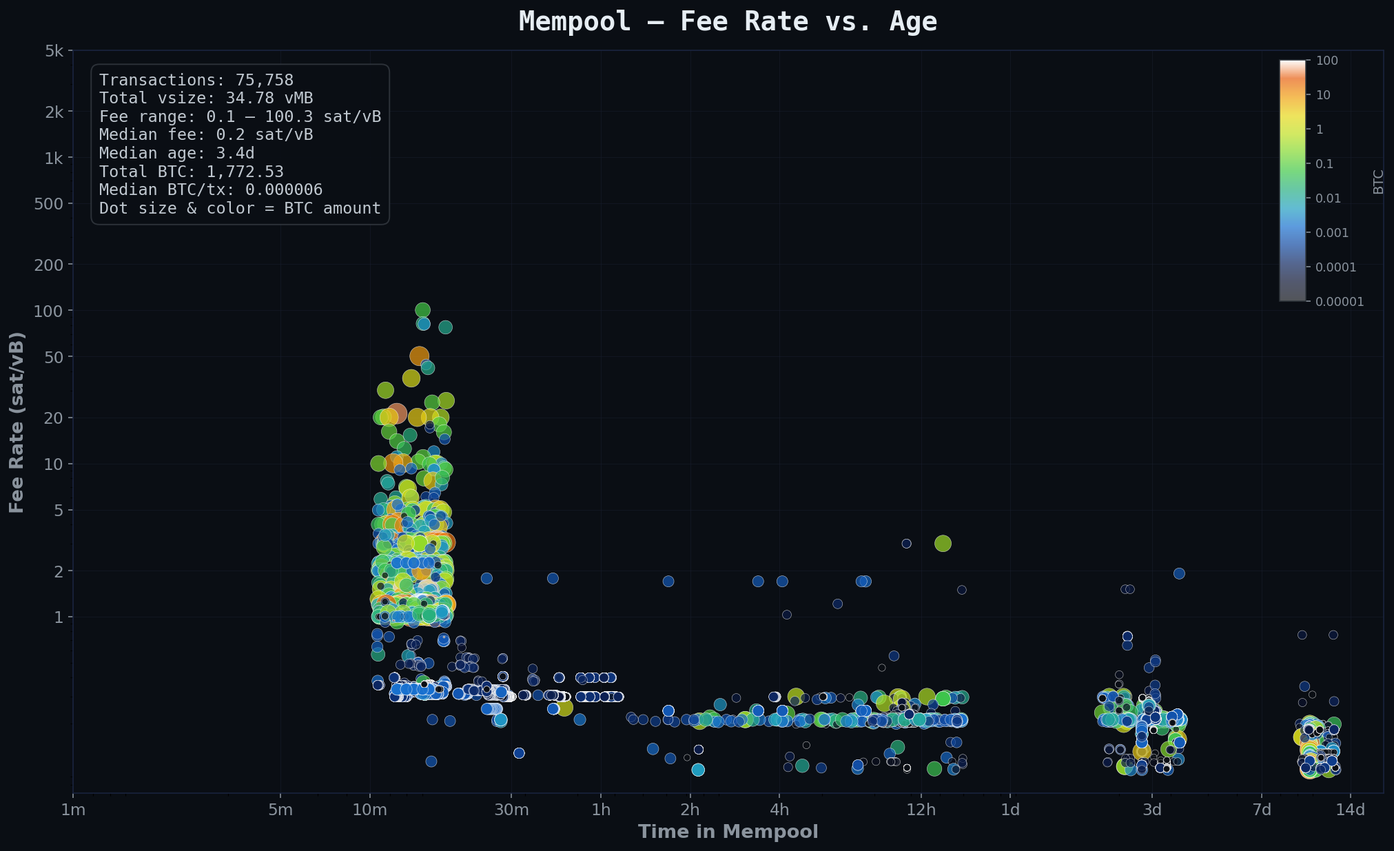
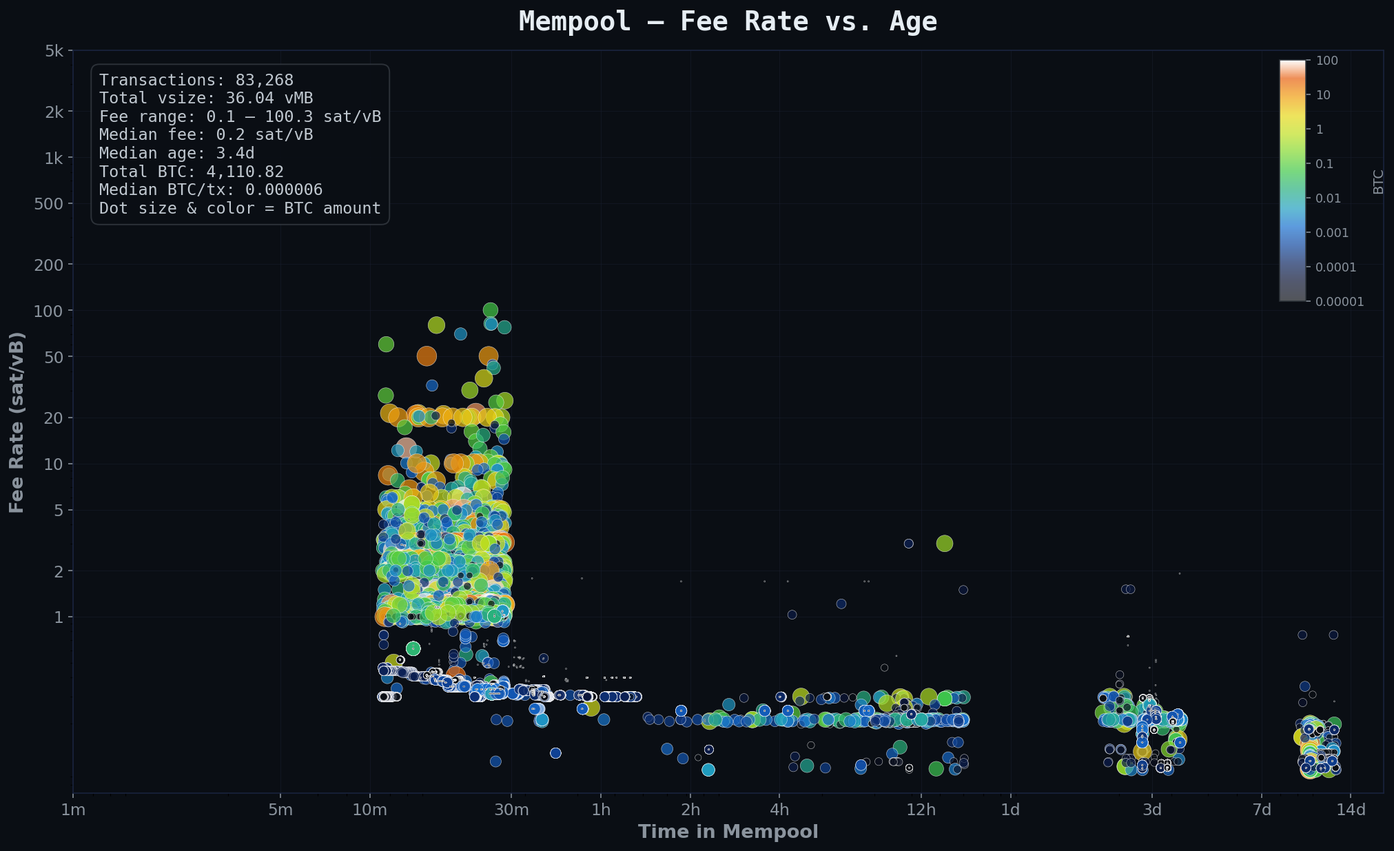
83,268 txs · 36.0 vMB · median 0.2 sat/vB

diff --git a/index.html b/index.html
@@ -117,38 +117,37 @@
 </head>
 <body>
   <h1><img src="favicon.svg" alt=""> Bitcoin Weather Report</h1>
-  <div class="updated">Last update: 1778740240.5706506 · auto-refresh every 10 min<span class="source"> · source: Mac feed (2m old)</span></div>
+  <div class="updated">Last update: 1778740865.905161 · auto-refresh every 10 min<span class="source"> · source: Mac feed (3m old)</span></div>
   <div class="status"><span class="ok">SYNCED — block 949,332</span></div>
 
   <div class="stats">
-    <div class="stat"><div class="lbl">Mempool TXs</div><div class="val">75,758</div></div>
-    <div class="stat"><div class="lbl">Mempool size</div><div class="val">34.78 <small>vMB</small></div></div>
+    <div class="stat"><div class="lbl">Mempool TXs</div><div class="val">83,268</div></div>
+    <div class="stat"><div class="lbl">Mempool size</div><div class="val">36.04 <small>vMB</small></div></div>
     <div class="stat"><div class="lbl">Median fee</div><div class="val">0.2 <small>sat/vB</small></div></div>
     <div class="stat"><div class="lbl">Oldest TX</div><div class="val">12.5d</div></div>
   </div>
 
   <h2>Notable Events</h2>
   <ul class="events">
-    <li class="event info">2 whale txs (≥100 BTC pending)</li>
+    <li class="event info">5 whale txs (≥100 BTC pending)</li>
 <li class="event info">1,893 stale txs (>7d)</li>
   </ul>
 
   <h2>Mempool Heatmap</h2>
-  <img src="mempool_heatmap.png?t=1778740240" alt="Mempool heatmap">
+  <img src="mempool_heatmap.png?t=1778740865" alt="Mempool heatmap">
 
   <h2>Commentary</h2>
   <div class="commentary">
-    <p>The mempool is <b>busy</b> — 75,758 transactions occupying 34.8 vMB, and fees are at rock bottom (median 0.2 sat/vB). Low-fee transactions will need to wait.</p>
-<p>In total, <b>1,772.5 BTC</b> are queued for movement. Most pending txs are small (median under 100k sat). 2 whale transactions (≥100 BTC) are pending. 28 larger-than-average (28 between 10–100 BTC). The largest pending tx moves 528.5977 BTC at 1.2 sat/vB.</p>
-<p>The mempool has accumulated some backlog — only 19,682 of 75,758 txs are from the last 6 hours. At the bottom sits a sediment layer of <b>1,893 transactions older than a week</b>, almost all at the minimum 0.1 sat/vB. These typically include cheap consolidations and dust transactions waiting for a near-empty block; many will eventually be evicted after 14 days unconfirmed.</p>
-<p>It's been 18m since the last block (#949332) — slightly slow but normal variance.</p>
+    <p>The mempool is <b>busy</b> — 83,268 transactions occupying 36.0 vMB, and fees are at rock bottom (median 0.2 sat/vB). Low-fee transactions will need to wait.</p>
+<p>In total, <b>4,110.8 BTC</b> are queued for movement. Most pending txs are small (median under 100k sat). 5 whale transactions (≥100 BTC) are pending. 70 larger-than-average (70 between 10–100 BTC). The largest pending tx moves 528.5977 BTC at 1.2 sat/vB.</p>
+<p>The mempool has accumulated some backlog — only 27,190 of 83,268 txs are from the last 6 hours. At the bottom sits a sediment layer of <b>1,893 transactions older than a week</b>, almost all at the minimum 0.1 sat/vB. These typically include cheap consolidations and dust transactions waiting for a near-empty block; many will eventually be evicted after 14 days unconfirmed.</p>
   </div>
 
   <h2>24h Trends</h2>
-  <div class="trend-meta">Last 24.5h · 144 samples</div><div class="trends"><div class="trend">  <div class="trend-lbl">Median fee</div>  <div class="trend-val">0.2 <small>sat/vB</small></div>  <svg width="200" height="40" class="spark" viewBox="0 0 200 40"><polygon fill="#f5e642" fill-opacity="0.15" points="2.0,38.0 3.4,38.0 4.7,38.0 6.1,38.0 7.5,38.0 8.9,38.0 10.2,38.0 11.6,38.0 13.0,38.0 14.3,38.0 15.7,38.0 17.1,38.0 18.4,38.0 19.8,38.0 21.2,38.0 22.6,38.0 23.9,38.0 25.3,38.0 26.7,38.0 28.0,38.0 29.4,38.0 30.8,38.0 32.2,38.0 33.5,38.0 34.9,38.0 36.3,38.0 37.6,38.0 39.0,38.0 40.4,38.0 41.7,38.0 43.1,38.0 44.5,38.0 45.9,38.0 47.2,38.0 48.6,38.0 50.0,38.0 51.3,38.0 52.7,38.0 54.1,38.0 55.5,38.0 56.8,38.0 58.2,38.0 59.6,38.0 60.9,38.0 62.3,2.0 63.7,2.0 65.0,16.4 66.4,16.4 67.8,16.4 69.2,16.4 70.5,16.4 71.9,16.4 73.3,16.4 74.6,16.4 76.0,16.4 77.4,16.4 78.8,16.4 80.1,16.4 81.5,16.4 82.9,16.4 84.2,16.4 85.6,16.4 87.0,16.4 88.3,16.4 89.7,16.4 91.1,16.4 92.5,38.0 93.8,16.4 95.2,38.0 96.6,38.0 97.9,16.4 99.3,16.4 100.7,16.4 102.1,16.4 103.4,16.4 104.8,16.4 106.2,16.4 107.5,38.0 108.9,38.0 110.3,16.4 111.7,16.4 113.0,16.4 114.4,38.0 115.8,38.0 117.1,38.0 118.5,38.0 119.9,38.0 121.2,38.0 122.6,38.0 124.0,38.0 125.4,38.0 126.7,38.0 128.1,38.0 129.5,38.0 130.8,38.0 132.2,38.0 133.6,38.0 135.0,16.4 136.3,38.0 137.7,38.0 139.1,38.0 140.4,16.4 141.8,16.4 143.2,38.0 144.5,38.0 145.9,38.0 147.3,38.0 148.7,16.4 150.0,16.4 151.4,38.0 152.8,38.0 154.1,38.0 155.5,38.0 156.9,38.0 158.3,38.0 159.6,38.0 161.0,38.0 162.4,16.4 163.7,16.4 165.1,16.4 166.5,16.4 167.8,16.4 169.2,16.4 170.6,16.4 172.0,16.4 173.3,16.4 174.7,38.0 176.1,38.0 177.4,38.0 178.8,38.0 180.2,38.0 181.6,16.4 182.9,16.4 184.3,16.4 185.7,16.4 187.0,16.4 188.4,16.4 189.8,16.4 191.1,16.4 192.5,16.4 193.9,16.4 195.3,16.4 196.6,38.0 198.0,16.4 198.0,38.0 2.0,38.0"/><polyline fill="none" stroke="#f5e642" stroke-width="1.5" stroke-linejoin="round" stroke-linecap="round" points="2.0,38.0 3.4,38.0 4.7,38.0 6.1,38.0 7.5,38.0 8.9,38.0 10.2,38.0 11.6,38.0 13.0,38.0 14.3,38.0 15.7,38.0 17.1,38.0 18.4,38.0 19.8,38.0 21.2,38.0 22.6,38.0 23.9,38.0 25.3,38.0 26.7,38.0 28.0,38.0 29.4,38.0 30.8,38.0 32.2,38.0 33.5,38.0 34.9,38.0 36.3,38.0 37.6,38.0 39.0,38.0 40.4,38.0 41.7,38.0 43.1,38.0 44.5,38.0 45.9,38.0 47.2,38.0 48.6,38.0 50.0,38.0 51.3,38.0 52.7,38.0 54.1,38.0 55.5,38.0 56.8,38.0 58.2,38.0 59.6,38.0 60.9,38.0 62.3,2.0 63.7,2.0 65.0,16.4 66.4,16.4 67.8,16.4 69.2,16.4 70.5,16.4 71.9,16.4 73.3,16.4 74.6,16.4 76.0,16.4 77.4,16.4 78.8,16.4 80.1,16.4 81.5,16.4 82.9,16.4 84.2,16.4 85.6,16.4 87.0,16.4 88.3,16.4 89.7,16.4 91.1,16.4 92.5,38.0 93.8,16.4 95.2,38.0 96.6,38.0 97.9,16.4 99.3,16.4 100.7,16.4 102.1,16.4 103.4,16.4 104.8,16.4 106.2,16.4 107.5,38.0 108.9,38.0 110.3,16.4 111.7,16.4 113.0,16.4 114.4,38.0 115.8,38.0 117.1,38.0 118.5,38.0 119.9,38.0 121.2,38.0 122.6,38.0 124.0,38.0 125.4,38.0 126.7,38.0 128.1,38.0 129.5,38.0 130.8,38.0 132.2,38.0 133.6,38.0 135.0,16.4 136.3,38.0 137.7,38.0 139.1,38.0 140.4,16.4 141.8,16.4 143.2,38.0 144.5,38.0 145.9,38.0 147.3,38.0 148.7,16.4 150.0,16.4 151.4,38.0 152.8,38.0 154.1,38.0 155.5,38.0 156.9,38.0 158.3,38.0 159.6,38.0 161.0,38.0 162.4,16.4 163.7,16.4 165.1,16.4 166.5,16.4 167.8,16.4 169.2,16.4 170.6,16.4 172.0,16.4 173.3,16.4 174.7,38.0 176.1,38.0 177.4,38.0 178.8,38.0 180.2,38.0 181.6,16.4 182.9,16.4 184.3,16.4 185.7,16.4 187.0,16.4 188.4,16.4 189.8,16.4 191.1,16.4 192.5,16.4 193.9,16.4 195.3,16.4 196.6,38.0 198.0,16.4"/></svg>  <div class="trend-range">range: 0.0 – 0.3</div></div><div class="trend">  <div class="trend-lbl">Mempool size</div>  <div class="trend-val">34.8 <small>vMB</small></div>  <svg width="200" height="40" class="spark" viewBox="0 0 200 40"><polygon fill="#c0e020" fill-opacity="0.15" points="2.0,38.0 3.4,38.0 4.7,38.0 6.1,38.0 7.5,38.0 8.9,38.0 10.2,38.0 11.6,38.0 13.0,38.0 14.3,38.0 15.7,38.0 17.1,38.0 18.4,38.0 19.8,38.0 21.2,38.0 22.6,38.0 23.9,38.0 25.3,38.0 26.7,38.0 28.0,38.0 29.4,38.0 30.8,38.0 32.2,38.0 33.5,38.0 34.9,38.0 36.3,38.0 37.6,38.0 39.0,38.0 40.4,38.0 41.7,38.0 43.1,38.0 44.5,38.0 45.9,38.0 47.2,38.0 48.6,38.0 50.0,38.0 51.3,38.0 52.7,38.0 54.1,38.0 55.5,38.0 56.8,38.0 58.2,38.0 59.6,38.0 60.9,38.0 62.3,38.0 63.7,38.0 65.0,16.5 66.4,4.4 67.8,3.6 69.2,2.8 70.5,4.9 71.9,4.5 73.3,4.6 74.6,3.9 76.0,3.4 77.4,5.3 78.8,4.0 80.1,3.3 81.5,5.2 82.9,3.9 84.2,3.2 85.6,2.5 87.0,2.5 88.3,2.6 89.7,3.4 91.1,3.3 92.5,38.0 93.8,2.6 95.2,38.0 96.6,38.0 97.9,4.1 99.3,3.9 100.7,3.0 102.1,4.2 103.4,3.3 104.8,3.6 106.2,5.4 107.5,38.0 108.9,38.0 110.3,4.1 111.7,3.9 113.0,3.9 114.4,38.0 115.8,38.0 117.1,38.0 118.5,38.0 119.9,38.0 121.2,38.0 122.6,38.0 124.0,38.0 125.4,38.0 126.7,38.0 128.1,38.0 129.5,38.0 130.8,38.0 132.2,38.0 133.6,38.0 135.0,2.0 136.3,38.0 137.7,38.0 139.1,38.0 140.4,4.0 141.8,4.0 143.2,38.0 144.5,38.0 145.9,38.0 147.3,38.0 148.7,3.6 150.0,3.6 151.4,38.0 152.8,38.0 154.1,38.0 155.5,38.0 156.9,38.0 158.3,38.0 159.6,38.0 161.0,38.0 162.4,5.1 163.7,4.2 165.1,3.8 166.5,3.5 167.8,4.9 169.2,5.2 170.6,5.2 172.0,3.8 173.3,4.0 174.7,38.0 176.1,38.0 177.4,38.0 178.8,38.0 180.2,38.0 181.6,4.5 182.9,4.3 184.3,2.9 185.7,3.4 187.0,3.4 188.4,3.2 189.8,5.2 191.1,5.2 192.5,3.6 193.9,4.5 195.3,4.5 196.6,38.0 198.0,3.3 198.0,38.0 2.0,38.0"/><polyline fill="none" stroke="#c0e020" stroke-width="1.5" stroke-linejoin="round" stroke-linecap="round" points="2.0,38.0 3.4,38.0 4.7,38.0 6.1,38.0 7.5,38.0 8.9,38.0 10.2,38.0 11.6,38.0 13.0,38.0 14.3,38.0 15.7,38.0 17.1,38.0 18.4,38.0 19.8,38.0 21.2,38.0 22.6,38.0 23.9,38.0 25.3,38.0 26.7,38.0 28.0,38.0 29.4,38.0 30.8,38.0 32.2,38.0 33.5,38.0 34.9,38.0 36.3,38.0 37.6,38.0 39.0,38.0 40.4,38.0 41.7,38.0 43.1,38.0 44.5,38.0 45.9,38.0 47.2,38.0 48.6,38.0 50.0,38.0 51.3,38.0 52.7,38.0 54.1,38.0 55.5,38.0 56.8,38.0 58.2,38.0 59.6,38.0 60.9,38.0 62.3,38.0 63.7,38.0 65.0,16.5 66.4,4.4 67.8,3.6 69.2,2.8 70.5,4.9 71.9,4.5 73.3,4.6 74.6,3.9 76.0,3.4 77.4,5.3 78.8,4.0 80.1,3.3 81.5,5.2 82.9,3.9 84.2,3.2 85.6,2.5 87.0,2.5 88.3,2.6 89.7,3.4 91.1,3.3 92.5,38.0 93.8,2.6 95.2,38.0 96.6,38.0 97.9,4.1 99.3,3.9 100.7,3.0 102.1,4.2 103.4,3.3 104.8,3.6 106.2,5.4 107.5,38.0 108.9,38.0 110.3,4.1 111.7,3.9 113.0,3.9 114.4,38.0 115.8,38.0 117.1,38.0 118.5,38.0 119.9,38.0 121.2,38.0 122.6,38.0 124.0,38.0 125.4,38.0 126.7,38.0 128.1,38.0 129.5,38.0 130.8,38.0 132.2,38.0 133.6,38.0 135.0,2.0 136.3,38.0 137.7,38.0 139.1,38.0 140.4,4.0 141.8,4.0 143.2,38.0 144.5,38.0 145.9,38.0 147.3,38.0 148.7,3.6 150.0,3.6 151.4,38.0 152.8,38.0 154.1,38.0 155.5,38.0 156.9,38.0 158.3,38.0 159.6,38.0 161.0,38.0 162.4,5.1 163.7,4.2 165.1,3.8 166.5,3.5 167.8,4.9 169.2,5.2 170.6,5.2 172.0,3.8 173.3,4.0 174.7,38.0 176.1,38.0 177.4,38.0 178.8,38.0 180.2,38.0 181.6,4.5 182.9,4.3 184.3,2.9 185.7,3.4 187.0,3.4 188.4,3.2 189.8,5.2 191.1,5.2 192.5,3.6 193.9,4.5 195.3,4.5 196.6,38.0 198.0,3.3"/></svg>  <div class="trend-range">range: 0.0 – 36.1</div></div><div class="trend">  <div class="trend-lbl">Tx count</div>  <div class="trend-val">75,758 <small></small></div>  <svg width="200" height="40" class="spark" viewBox="0 0 200 40"><polygon fill="#1870d0" fill-opacity="0.15" points="2.0,38.0 3.4,38.0 4.7,38.0 6.1,38.0 7.5,38.0 8.9,38.0 10.2,38.0 11.6,38.0 13.0,38.0 14.3,38.0 15.7,38.0 17.1,38.0 18.4,38.0 19.8,38.0 21.2,38.0 22.6,38.0 23.9,38.0 25.3,38.0 26.7,38.0 28.0,38.0 29.4,38.0 30.8,38.0 32.2,38.0 33.5,38.0 34.9,38.0 36.3,38.0 37.6,38.0 39.0,38.0 40.4,38.0 41.7,38.0 43.1,38.0 44.5,38.0 45.9,38.0 47.2,38.0 48.6,38.0 50.0,38.0 51.3,38.0 52.7,38.0 54.1,38.0 55.5,38.0 56.8,38.0 58.2,38.0 59.6,38.0 60.9,38.0 62.3,38.0 63.7,38.0 65.0,36.8 66.4,8.6 67.8,7.5 69.2,6.6 70.5,9.4 71.9,8.2 73.3,8.5 74.6,7.1 76.0,6.2 77.4,9.9 78.8,7.0 80.1,5.8 81.5,9.5 82.9,6.9 84.2,5.8 85.6,4.9 87.0,5.4 88.3,5.9 89.7,7.1 91.1,6.1 92.5,38.0 93.8,4.8 95.2,38.0 96.6,38.0 97.9,6.9 99.3,6.0 100.7,4.0 102.1,6.9 103.4,4.7 104.8,5.4 106.2,10.2 107.5,38.0 108.9,38.0 110.3,6.7 111.7,6.0 113.0,5.7 114.4,38.0 115.8,38.0 117.1,38.0 118.5,38.0 119.9,38.0 121.2,38.0 122.6,38.0 124.0,38.0 125.4,38.0 126.7,38.0 128.1,38.0 129.5,38.0 130.8,38.0 132.2,38.0 133.6,38.0 135.0,2.0 136.3,38.0 137.7,38.0 139.1,38.0 140.4,6.1 141.8,6.1 143.2,38.0 144.5,38.0 145.9,38.0 147.3,38.0 148.7,4.8 150.0,4.8 151.4,38.0 152.8,38.0 154.1,38.0 155.5,38.0 156.9,38.0 158.3,38.0 159.6,38.0 161.0,38.0 162.4,9.1 163.7,7.2 165.1,6.6 166.5,6.1 167.8,8.7 169.2,9.6 170.6,9.6 172.0,6.1 173.3,5.8 174.7,38.0 176.1,38.0 177.4,38.0 178.8,38.0 180.2,38.0 181.6,7.1 182.9,6.7 184.3,3.8 185.7,4.1 187.0,4.1 188.4,3.5 189.8,9.4 191.1,9.4 192.5,4.6 193.9,7.5 195.3,7.5 196.6,38.0 198.0,4.4 198.0,38.0 2.0,38.0"/><polyline fill="none" stroke="#1870d0" stroke-width="1.5" stroke-linejoin="round" stroke-linecap="round" points="2.0,38.0 3.4,38.0 4.7,38.0 6.1,38.0 7.5,38.0 8.9,38.0 10.2,38.0 11.6,38.0 13.0,38.0 14.3,38.0 15.7,38.0 17.1,38.0 18.4,38.0 19.8,38.0 21.2,38.0 22.6,38.0 23.9,38.0 25.3,38.0 26.7,38.0 28.0,38.0 29.4,38.0 30.8,38.0 32.2,38.0 33.5,38.0 34.9,38.0 36.3,38.0 37.6,38.0 39.0,38.0 40.4,38.0 41.7,38.0 43.1,38.0 44.5,38.0 45.9,38.0 47.2,38.0 48.6,38.0 50.0,38.0 51.3,38.0 52.7,38.0 54.1,38.0 55.5,38.0 56.8,38.0 58.2,38.0 59.6,38.0 60.9,38.0 62.3,38.0 63.7,38.0 65.0,36.8 66.4,8.6 67.8,7.5 69.2,6.6 70.5,9.4 71.9,8.2 73.3,8.5 74.6,7.1 76.0,6.2 77.4,9.9 78.8,7.0 80.1,5.8 81.5,9.5 82.9,6.9 84.2,5.8 85.6,4.9 87.0,5.4 88.3,5.9 89.7,7.1 91.1,6.1 92.5,38.0 93.8,4.8 95.2,38.0 96.6,38.0 97.9,6.9 99.3,6.0 100.7,4.0 102.1,6.9 103.4,4.7 104.8,5.4 106.2,10.2 107.5,38.0 108.9,38.0 110.3,6.7 111.7,6.0 113.0,5.7 114.4,38.0 115.8,38.0 117.1,38.0 118.5,38.0 119.9,38.0 121.2,38.0 122.6,38.0 124.0,38.0 125.4,38.0 126.7,38.0 128.1,38.0 129.5,38.0 130.8,38.0 132.2,38.0 133.6,38.0 135.0,2.0 136.3,38.0 137.7,38.0 139.1,38.0 140.4,6.1 141.8,6.1 143.2,38.0 144.5,38.0 145.9,38.0 147.3,38.0 148.7,4.8 150.0,4.8 151.4,38.0 152.8,38.0 154.1,38.0 155.5,38.0 156.9,38.0 158.3,38.0 159.6,38.0 161.0,38.0 162.4,9.1 163.7,7.2 165.1,6.6 166.5,6.1 167.8,8.7 169.2,9.6 170.6,9.6 172.0,6.1 173.3,5.8 174.7,38.0 176.1,38.0 177.4,38.0 178.8,38.0 180.2,38.0 181.6,7.1 182.9,6.7 184.3,3.8 185.7,4.1 187.0,4.1 188.4,3.5 189.8,9.4 191.1,9.4 192.5,4.6 193.9,7.5 195.3,7.5 196.6,38.0 198.0,4.4"/></svg>  <div class="trend-range">range: 0 – 81,281</div></div><div class="trend">  <div class="trend-lbl">Total BTC pending</div>  <div class="trend-val">1.77k <small>BTC</small></div>  <svg width="200" height="40" class="spark" viewBox="0 0 200 40"><polygon fill="#f0a010" fill-opacity="0.15" points="2.0,38.0 3.4,38.0 4.7,38.0 6.1,38.0 7.5,38.0 8.9,38.0 10.2,38.0 11.6,38.0 13.0,38.0 14.3,38.0 15.7,38.0 17.1,38.0 18.4,38.0 19.8,38.0 21.2,38.0 22.6,38.0 23.9,38.0 25.3,38.0 26.7,38.0 28.0,38.0 29.4,38.0 30.8,38.0 32.2,38.0 33.5,38.0 34.9,38.0 36.3,38.0 37.6,38.0 39.0,38.0 40.4,38.0 41.7,38.0 43.1,38.0 44.5,38.0 45.9,38.0 47.2,38.0 48.6,38.0 50.0,38.0 51.3,38.0 52.7,38.0 54.1,38.0 55.5,38.0 56.8,38.0 58.2,38.0 59.6,38.0 60.9,38.0 62.3,38.0 63.7,38.0 65.0,37.9 66.4,32.1 67.8,28.1 69.2,2.0 70.5,36.0 71.9,21.9 73.3,29.7 74.6,25.8 76.0,17.4 77.4,36.3 78.8,27.7 80.1,12.9 81.5,37.2 82.9,28.9 84.2,25.3 85.6,9.4 87.0,27.8 88.3,29.1 89.7,36.5 91.1,34.6 92.5,38.0 93.8,27.9 95.2,38.0 96.6,38.0 97.9,29.7 99.3,31.7 100.7,28.2 102.1,30.1 103.4,26.7 104.8,35.4 106.2,37.3 107.5,38.0 108.9,38.0 110.3,30.8 111.7,29.4 113.0,29.6 114.4,38.0 115.8,38.0 117.1,38.0 118.5,38.0 119.9,38.0 121.2,38.0 122.6,38.0 124.0,38.0 125.4,38.0 126.7,38.0 128.1,38.0 129.5,38.0 130.8,38.0 132.2,38.0 133.6,38.0 135.0,3.5 136.3,38.0 137.7,38.0 139.1,38.0 140.4,35.6 141.8,35.6 143.2,38.0 144.5,38.0 145.9,38.0 147.3,38.0 148.7,36.0 150.0,36.0 151.4,38.0 152.8,38.0 154.1,38.0 155.5,38.0 156.9,38.0 158.3,38.0 159.6,38.0 161.0,38.0 162.4,36.3 163.7,34.3 165.1,32.5 166.5,30.4 167.8,37.3 169.2,35.0 170.6,35.0 172.0,32.6 173.3,35.3 174.7,38.0 176.1,38.0 177.4,38.0 178.8,38.0 180.2,38.0 181.6,37.1 182.9,31.6 184.3,29.2 185.7,36.1 187.0,36.1 188.4,31.9 189.8,37.2 191.1,37.2 192.5,31.4 193.9,37.4 195.3,37.4 196.6,38.0 198.0,36.0 198.0,38.0 2.0,38.0"/><polyline fill="none" stroke="#f0a010" stroke-width="1.5" stroke-linejoin="round" stroke-linecap="round" points="2.0,38.0 3.4,38.0 4.7,38.0 6.1,38.0 7.5,38.0 8.9,38.0 10.2,38.0 11.6,38.0 13.0,38.0 14.3,38.0 15.7,38.0 17.1,38.0 18.4,38.0 19.8,38.0 21.2,38.0 22.6,38.0 23.9,38.0 25.3,38.0 26.7,38.0 28.0,38.0 29.4,38.0 30.8,38.0 32.2,38.0 33.5,38.0 34.9,38.0 36.3,38.0 37.6,38.0 39.0,38.0 40.4,38.0 41.7,38.0 43.1,38.0 44.5,38.0 45.9,38.0 47.2,38.0 48.6,38.0 50.0,38.0 51.3,38.0 52.7,38.0 54.1,38.0 55.5,38.0 56.8,38.0 58.2,38.0 59.6,38.0 60.9,38.0 62.3,38.0 63.7,38.0 65.0,37.9 66.4,32.1 67.8,28.1 69.2,2.0 70.5,36.0 71.9,21.9 73.3,29.7 74.6,25.8 76.0,17.4 77.4,36.3 78.8,27.7 80.1,12.9 81.5,37.2 82.9,28.9 84.2,25.3 85.6,9.4 87.0,27.8 88.3,29.1 89.7,36.5 91.1,34.6 92.5,38.0 93.8,27.9 95.2,38.0 96.6,38.0 97.9,29.7 99.3,31.7 100.7,28.2 102.1,30.1 103.4,26.7 104.8,35.4 106.2,37.3 107.5,38.0 108.9,38.0 110.3,30.8 111.7,29.4 113.0,29.6 114.4,38.0 115.8,38.0 117.1,38.0 118.5,38.0 119.9,38.0 121.2,38.0 122.6,38.0 124.0,38.0 125.4,38.0 126.7,38.0 128.1,38.0 129.5,38.0 130.8,38.0 132.2,38.0 133.6,38.0 135.0,3.5 136.3,38.0 137.7,38.0 139.1,38.0 140.4,35.6 141.8,35.6 143.2,38.0 144.5,38.0 145.9,38.0 147.3,38.0 148.7,36.0 150.0,36.0 151.4,38.0 152.8,38.0 154.1,38.0 155.5,38.0 156.9,38.0 158.3,38.0 159.6,38.0 161.0,38.0 162.4,36.3 163.7,34.3 165.1,32.5 166.5,30.4 167.8,37.3 169.2,35.0 170.6,35.0 172.0,32.6 173.3,35.3 174.7,38.0 176.1,38.0 177.4,38.0 178.8,38.0 180.2,38.0 181.6,37.1 182.9,31.6 184.3,29.2 185.7,36.1 187.0,36.1 188.4,31.9 189.8,37.2 191.1,37.2 192.5,31.4 193.9,37.4 195.3,37.4 196.6,38.0 198.0,36.0"/></svg>  <div class="trend-range">range: 0 sat – 31.67k</div></div><div class="trend">  <div class="trend-lbl">Median tx amount</div>  <div class="trend-val">644 sat <small>BTC</small></div>  <svg width="200" height="40" class="spark" viewBox="0 0 200 40"><polygon fill="#e86010" fill-opacity="0.15" points="2.0,38.0 3.4,38.0 4.7,38.0 6.1,38.0 7.5,38.0 8.9,38.0 10.2,38.0 11.6,38.0 13.0,38.0 14.3,38.0 15.7,38.0 17.1,38.0 18.4,38.0 19.8,38.0 21.2,38.0 22.6,38.0 23.9,38.0 25.3,38.0 26.7,38.0 28.0,38.0 29.4,38.0 30.8,38.0 32.2,38.0 33.5,38.0 34.9,38.0 36.3,38.0 37.6,38.0 39.0,38.0 40.4,38.0 41.7,38.0 43.1,38.0 44.5,38.0 45.9,38.0 47.2,38.0 48.6,38.0 50.0,38.0 51.3,38.0 52.7,38.0 54.1,38.0 55.5,38.0 56.8,38.0 58.2,38.0 59.6,38.0 60.9,38.0 62.3,2.0 63.7,2.0 65.0,36.9 66.4,37.3 67.8,37.3 69.2,37.3 70.5,37.3 71.9,37.3 73.3,37.3 74.6,37.3 76.0,37.3 77.4,37.3 78.8,37.3 80.1,37.3 81.5,37.3 82.9,37.3 84.2,37.3 85.6,37.3 87.0,37.3 88.3,37.3 89.7,37.3 91.1,37.3 92.5,38.0 93.8,37.3 95.2,38.0 96.6,38.0 97.9,37.3 99.3,37.3 100.7,37.3 102.1,37.3 103.4,37.3 104.8,37.3 106.2,37.3 107.5,38.0 108.9,38.0 110.3,37.3 111.7,37.3 113.0,37.3 114.4,38.0 115.8,38.0 117.1,38.0 118.5,38.0 119.9,38.0 121.2,38.0 122.6,38.0 124.0,38.0 125.4,38.0 126.7,38.0 128.1,38.0 129.5,38.0 130.8,38.0 132.2,38.0 133.6,38.0 135.0,37.2 136.3,38.0 137.7,38.0 139.1,38.0 140.4,37.3 141.8,37.3 143.2,38.0 144.5,38.0 145.9,38.0 147.3,38.0 148.7,37.3 150.0,37.3 151.4,38.0 152.8,38.0 154.1,38.0 155.5,38.0 156.9,38.0 158.3,38.0 159.6,38.0 161.0,38.0 162.4,37.3 163.7,37.3 165.1,37.3 166.5,37.3 167.8,37.3 169.2,37.3 170.6,37.3 172.0,37.3 173.3,37.3 174.7,38.0 176.1,38.0 177.4,38.0 178.8,38.0 180.2,38.0 181.6,37.3 182.9,37.3 184.3,37.3 185.7,37.3 187.0,37.3 188.4,37.3 189.8,37.3 191.1,37.3 192.5,37.3 193.9,37.3 195.3,37.3 196.6,38.0 198.0,37.3 198.0,38.0 2.0,38.0"/><polyline fill="none" stroke="#e86010" stroke-width="1.5" stroke-linejoin="round" stroke-linecap="round" points="2.0,38.0 3.4,38.0 4.7,38.0 6.1,38.0 7.5,38.0 8.9,38.0 10.2,38.0 11.6,38.0 13.0,38.0 14.3,38.0 15.7,38.0 17.1,38.0 18.4,38.0 19.8,38.0 21.2,38.0 22.6,38.0 23.9,38.0 25.3,38.0 26.7,38.0 28.0,38.0 29.4,38.0 30.8,38.0 32.2,38.0 33.5,38.0 34.9,38.0 36.3,38.0 37.6,38.0 39.0,38.0 40.4,38.0 41.7,38.0 43.1,38.0 44.5,38.0 45.9,38.0 47.2,38.0 48.6,38.0 50.0,38.0 51.3,38.0 52.7,38.0 54.1,38.0 55.5,38.0 56.8,38.0 58.2,38.0 59.6,38.0 60.9,38.0 62.3,2.0 63.7,2.0 65.0,36.9 66.4,37.3 67.8,37.3 69.2,37.3 70.5,37.3 71.9,37.3 73.3,37.3 74.6,37.3 76.0,37.3 77.4,37.3 78.8,37.3 80.1,37.3 81.5,37.3 82.9,37.3 84.2,37.3 85.6,37.3 87.0,37.3 88.3,37.3 89.7,37.3 91.1,37.3 92.5,38.0 93.8,37.3 95.2,38.0 96.6,38.0 97.9,37.3 99.3,37.3 100.7,37.3 102.1,37.3 103.4,37.3 104.8,37.3 106.2,37.3 107.5,38.0 108.9,38.0 110.3,37.3 111.7,37.3 113.0,37.3 114.4,38.0 115.8,38.0 117.1,38.0 118.5,38.0 119.9,38.0 121.2,38.0 122.6,38.0 124.0,38.0 125.4,38.0 126.7,38.0 128.1,38.0 129.5,38.0 130.8,38.0 132.2,38.0 133.6,38.0 135.0,37.2 136.3,38.0 137.7,38.0 139.1,38.0 140.4,37.3 141.8,37.3 143.2,38.0 144.5,38.0 145.9,38.0 147.3,38.0 148.7,37.3 150.0,37.3 151.4,38.0 152.8,38.0 154.1,38.0 155.5,38.0 156.9,38.0 158.3,38.0 159.6,38.0 161.0,38.0 162.4,37.3 163.7,37.3 165.1,37.3 166.5,37.3 167.8,37.3 169.2,37.3 170.6,37.3 172.0,37.3 173.3,37.3 174.7,38.0 176.1,38.0 177.4,38.0 178.8,38.0 180.2,38.0 181.6,37.3 182.9,37.3 184.3,37.3 185.7,37.3 187.0,37.3 188.4,37.3 189.8,37.3 191.1,37.3 192.5,37.3 193.9,37.3 195.3,37.3 196.6,38.0 198.0,37.3"/></svg>  <div class="trend-range">range: 0 sat – 32,048 sat</div></div></div>
+  <div class="trend-meta">Last 24.5h · 144 samples</div><div class="trends"><div class="trend">  <div class="trend-lbl">Median fee</div>  <div class="trend-val">0.2 <small>sat/vB</small></div>  <svg width="200" height="40" class="spark" viewBox="0 0 200 40"><polygon fill="#f5e642" fill-opacity="0.15" points="2.0,38.0 3.4,38.0 4.7,38.0 6.1,38.0 7.5,38.0 8.9,38.0 10.2,38.0 11.6,38.0 13.0,38.0 14.3,38.0 15.7,38.0 17.1,38.0 18.4,38.0 19.8,38.0 21.2,38.0 22.6,38.0 23.9,38.0 25.3,38.0 26.7,38.0 28.0,38.0 29.4,38.0 30.8,38.0 32.2,38.0 33.5,38.0 34.9,38.0 36.3,38.0 37.6,38.0 39.0,38.0 40.4,38.0 41.7,38.0 43.1,38.0 44.5,38.0 45.9,38.0 47.2,38.0 48.6,38.0 50.0,38.0 51.3,38.0 52.7,38.0 54.1,38.0 55.5,38.0 56.8,38.0 58.2,38.0 59.6,38.0 60.9,2.0 62.3,2.0 63.7,16.4 65.0,16.4 66.4,16.4 67.8,16.4 69.2,16.4 70.5,16.4 71.9,16.4 73.3,16.4 74.6,16.4 76.0,16.4 77.4,16.4 78.8,16.4 80.1,16.4 81.5,16.4 82.9,16.4 84.2,16.4 85.6,16.4 87.0,16.4 88.3,16.4 89.7,16.4 91.1,38.0 92.5,16.4 93.8,38.0 95.2,38.0 96.6,16.4 97.9,16.4 99.3,16.4 100.7,16.4 102.1,16.4 103.4,16.4 104.8,16.4 106.2,38.0 107.5,38.0 108.9,16.4 110.3,16.4 111.7,16.4 113.0,38.0 114.4,38.0 115.8,38.0 117.1,38.0 118.5,38.0 119.9,38.0 121.2,38.0 122.6,38.0 124.0,38.0 125.4,38.0 126.7,38.0 128.1,38.0 129.5,38.0 130.8,38.0 132.2,38.0 133.6,16.4 135.0,38.0 136.3,38.0 137.7,38.0 139.1,16.4 140.4,16.4 141.8,38.0 143.2,38.0 144.5,38.0 145.9,38.0 147.3,16.4 148.7,16.4 150.0,38.0 151.4,38.0 152.8,38.0 154.1,38.0 155.5,38.0 156.9,38.0 158.3,38.0 159.6,38.0 161.0,16.4 162.4,16.4 163.7,16.4 165.1,16.4 166.5,16.4 167.8,16.4 169.2,16.4 170.6,16.4 172.0,16.4 173.3,38.0 174.7,38.0 176.1,38.0 177.4,38.0 178.8,38.0 180.2,16.4 181.6,16.4 182.9,16.4 184.3,16.4 185.7,16.4 187.0,16.4 188.4,16.4 189.8,16.4 191.1,16.4 192.5,16.4 193.9,16.4 195.3,38.0 196.6,16.4 198.0,16.4 198.0,38.0 2.0,38.0"/><polyline fill="none" stroke="#f5e642" stroke-width="1.5" stroke-linejoin="round" stroke-linecap="round" points="2.0,38.0 3.4,38.0 4.7,38.0 6.1,38.0 7.5,38.0 8.9,38.0 10.2,38.0 11.6,38.0 13.0,38.0 14.3,38.0 15.7,38.0 17.1,38.0 18.4,38.0 19.8,38.0 21.2,38.0 22.6,38.0 23.9,38.0 25.3,38.0 26.7,38.0 28.0,38.0 29.4,38.0 30.8,38.0 32.2,38.0 33.5,38.0 34.9,38.0 36.3,38.0 37.6,38.0 39.0,38.0 40.4,38.0 41.7,38.0 43.1,38.0 44.5,38.0 45.9,38.0 47.2,38.0 48.6,38.0 50.0,38.0 51.3,38.0 52.7,38.0 54.1,38.0 55.5,38.0 56.8,38.0 58.2,38.0 59.6,38.0 60.9,2.0 62.3,2.0 63.7,16.4 65.0,16.4 66.4,16.4 67.8,16.4 69.2,16.4 70.5,16.4 71.9,16.4 73.3,16.4 74.6,16.4 76.0,16.4 77.4,16.4 78.8,16.4 80.1,16.4 81.5,16.4 82.9,16.4 84.2,16.4 85.6,16.4 87.0,16.4 88.3,16.4 89.7,16.4 91.1,38.0 92.5,16.4 93.8,38.0 95.2,38.0 96.6,16.4 97.9,16.4 99.3,16.4 100.7,16.4 102.1,16.4 103.4,16.4 104.8,16.4 106.2,38.0 107.5,38.0 108.9,16.4 110.3,16.4 111.7,16.4 113.0,38.0 114.4,38.0 115.8,38.0 117.1,38.0 118.5,38.0 119.9,38.0 121.2,38.0 122.6,38.0 124.0,38.0 125.4,38.0 126.7,38.0 128.1,38.0 129.5,38.0 130.8,38.0 132.2,38.0 133.6,16.4 135.0,38.0 136.3,38.0 137.7,38.0 139.1,16.4 140.4,16.4 141.8,38.0 143.2,38.0 144.5,38.0 145.9,38.0 147.3,16.4 148.7,16.4 150.0,38.0 151.4,38.0 152.8,38.0 154.1,38.0 155.5,38.0 156.9,38.0 158.3,38.0 159.6,38.0 161.0,16.4 162.4,16.4 163.7,16.4 165.1,16.4 166.5,16.4 167.8,16.4 169.2,16.4 170.6,16.4 172.0,16.4 173.3,38.0 174.7,38.0 176.1,38.0 177.4,38.0 178.8,38.0 180.2,16.4 181.6,16.4 182.9,16.4 184.3,16.4 185.7,16.4 187.0,16.4 188.4,16.4 189.8,16.4 191.1,16.4 192.5,16.4 193.9,16.4 195.3,38.0 196.6,16.4 198.0,16.4"/></svg>  <div class="trend-range">range: 0.0 – 0.3</div></div><div class="trend">  <div class="trend-lbl">Mempool size</div>  <div class="trend-val">36.0 <small>vMB</small></div>  <svg width="200" height="40" class="spark" viewBox="0 0 200 40"><polygon fill="#c0e020" fill-opacity="0.15" points="2.0,38.0 3.4,38.0 4.7,38.0 6.1,38.0 7.5,38.0 8.9,38.0 10.2,38.0 11.6,38.0 13.0,38.0 14.3,38.0 15.7,38.0 17.1,38.0 18.4,38.0 19.8,38.0 21.2,38.0 22.6,38.0 23.9,38.0 25.3,38.0 26.7,38.0 28.0,38.0 29.4,38.0 30.8,38.0 32.2,38.0 33.5,38.0 34.9,38.0 36.3,38.0 37.6,38.0 39.0,38.0 40.4,38.0 41.7,38.0 43.1,38.0 44.5,38.0 45.9,38.0 47.2,38.0 48.6,38.0 50.0,38.0 51.3,38.0 52.7,38.0 54.1,38.0 55.5,38.0 56.8,38.0 58.2,38.0 59.6,38.0 60.9,38.0 62.3,38.0 63.7,16.5 65.0,4.4 66.4,3.6 67.8,2.8 69.2,4.9 70.5,4.5 71.9,4.6 73.3,3.9 74.6,3.4 76.0,5.3 77.4,4.0 78.8,3.3 80.1,5.2 81.5,3.9 82.9,3.2 84.2,2.5 85.6,2.5 87.0,2.6 88.3,3.4 89.7,3.3 91.1,38.0 92.5,2.6 93.8,38.0 95.2,38.0 96.6,4.1 97.9,3.9 99.3,3.0 100.7,4.2 102.1,3.3 103.4,3.6 104.8,5.4 106.2,38.0 107.5,38.0 108.9,4.1 110.3,3.9 111.7,3.9 113.0,38.0 114.4,38.0 115.8,38.0 117.1,38.0 118.5,38.0 119.9,38.0 121.2,38.0 122.6,38.0 124.0,38.0 125.4,38.0 126.7,38.0 128.1,38.0 129.5,38.0 130.8,38.0 132.2,38.0 133.6,2.0 135.0,38.0 136.3,38.0 137.7,38.0 139.1,4.0 140.4,4.0 141.8,38.0 143.2,38.0 144.5,38.0 145.9,38.0 147.3,3.6 148.7,3.6 150.0,38.0 151.4,38.0 152.8,38.0 154.1,38.0 155.5,38.0 156.9,38.0 158.3,38.0 159.6,38.0 161.0,5.1 162.4,4.2 163.7,3.8 165.1,3.5 166.5,4.9 167.8,5.2 169.2,5.2 170.6,3.8 172.0,4.0 173.3,38.0 174.7,38.0 176.1,38.0 177.4,38.0 178.8,38.0 180.2,4.5 181.6,4.3 182.9,2.9 184.3,3.4 185.7,3.4 187.0,3.2 188.4,5.2 189.8,5.2 191.1,3.6 192.5,4.5 193.9,4.5 195.3,38.0 196.6,3.3 198.0,2.1 198.0,38.0 2.0,38.0"/><polyline fill="none" stroke="#c0e020" stroke-width="1.5" stroke-linejoin="round" stroke-linecap="round" points="2.0,38.0 3.4,38.0 4.7,38.0 6.1,38.0 7.5,38.0 8.9,38.0 10.2,38.0 11.6,38.0 13.0,38.0 14.3,38.0 15.7,38.0 17.1,38.0 18.4,38.0 19.8,38.0 21.2,38.0 22.6,38.0 23.9,38.0 25.3,38.0 26.7,38.0 28.0,38.0 29.4,38.0 30.8,38.0 32.2,38.0 33.5,38.0 34.9,38.0 36.3,38.0 37.6,38.0 39.0,38.0 40.4,38.0 41.7,38.0 43.1,38.0 44.5,38.0 45.9,38.0 47.2,38.0 48.6,38.0 50.0,38.0 51.3,38.0 52.7,38.0 54.1,38.0 55.5,38.0 56.8,38.0 58.2,38.0 59.6,38.0 60.9,38.0 62.3,38.0 63.7,16.5 65.0,4.4 66.4,3.6 67.8,2.8 69.2,4.9 70.5,4.5 71.9,4.6 73.3,3.9 74.6,3.4 76.0,5.3 77.4,4.0 78.8,3.3 80.1,5.2 81.5,3.9 82.9,3.2 84.2,2.5 85.6,2.5 87.0,2.6 88.3,3.4 89.7,3.3 91.1,38.0 92.5,2.6 93.8,38.0 95.2,38.0 96.6,4.1 97.9,3.9 99.3,3.0 100.7,4.2 102.1,3.3 103.4,3.6 104.8,5.4 106.2,38.0 107.5,38.0 108.9,4.1 110.3,3.9 111.7,3.9 113.0,38.0 114.4,38.0 115.8,38.0 117.1,38.0 118.5,38.0 119.9,38.0 121.2,38.0 122.6,38.0 124.0,38.0 125.4,38.0 126.7,38.0 128.1,38.0 129.5,38.0 130.8,38.0 132.2,38.0 133.6,2.0 135.0,38.0 136.3,38.0 137.7,38.0 139.1,4.0 140.4,4.0 141.8,38.0 143.2,38.0 144.5,38.0 145.9,38.0 147.3,3.6 148.7,3.6 150.0,38.0 151.4,38.0 152.8,38.0 154.1,38.0 155.5,38.0 156.9,38.0 158.3,38.0 159.6,38.0 161.0,5.1 162.4,4.2 163.7,3.8 165.1,3.5 166.5,4.9 167.8,5.2 169.2,5.2 170.6,3.8 172.0,4.0 173.3,38.0 174.7,38.0 176.1,38.0 177.4,38.0 178.8,38.0 180.2,4.5 181.6,4.3 182.9,2.9 184.3,3.4 185.7,3.4 187.0,3.2 188.4,5.2 189.8,5.2 191.1,3.6 192.5,4.5 193.9,4.5 195.3,38.0 196.6,3.3 198.0,2.1"/></svg>  <div class="trend-range">range: 0.0 – 36.1</div></div><div class="trend">  <div class="trend-lbl">Tx count</div>  <div class="trend-val">83,268 <small></small></div>  <svg width="200" height="40" class="spark" viewBox="0 0 200 40"><polygon fill="#1870d0" fill-opacity="0.15" points="2.0,38.0 3.4,38.0 4.7,38.0 6.1,38.0 7.5,38.0 8.9,38.0 10.2,38.0 11.6,38.0 13.0,38.0 14.3,38.0 15.7,38.0 17.1,38.0 18.4,38.0 19.8,38.0 21.2,38.0 22.6,38.0 23.9,38.0 25.3,38.0 26.7,38.0 28.0,38.0 29.4,38.0 30.8,38.0 32.2,38.0 33.5,38.0 34.9,38.0 36.3,38.0 37.6,38.0 39.0,38.0 40.4,38.0 41.7,38.0 43.1,38.0 44.5,38.0 45.9,38.0 47.2,38.0 48.6,38.0 50.0,38.0 51.3,38.0 52.7,38.0 54.1,38.0 55.5,38.0 56.8,38.0 58.2,38.0 59.6,38.0 60.9,38.0 62.3,38.0 63.7,36.9 65.0,9.3 66.4,8.3 67.8,7.4 69.2,10.1 70.5,8.9 71.9,9.2 73.3,7.8 74.6,6.9 76.0,10.5 77.4,7.8 78.8,6.6 80.1,10.2 81.5,7.6 82.9,6.5 84.2,5.6 85.6,6.2 87.0,6.6 88.3,7.8 89.7,6.8 91.1,38.0 92.5,5.6 93.8,38.0 95.2,38.0 96.6,7.6 97.9,6.8 99.3,4.8 100.7,7.6 102.1,5.5 103.4,6.2 104.8,10.9 106.2,38.0 107.5,38.0 108.9,7.5 110.3,6.8 111.7,6.4 113.0,38.0 114.4,38.0 115.8,38.0 117.1,38.0 118.5,38.0 119.9,38.0 121.2,38.0 122.6,38.0 124.0,38.0 125.4,38.0 126.7,38.0 128.1,38.0 129.5,38.0 130.8,38.0 132.2,38.0 133.6,2.9 135.0,38.0 136.3,38.0 137.7,38.0 139.1,6.8 140.4,6.8 141.8,38.0 143.2,38.0 144.5,38.0 145.9,38.0 147.3,5.6 148.7,5.6 150.0,38.0 151.4,38.0 152.8,38.0 154.1,38.0 155.5,38.0 156.9,38.0 158.3,38.0 159.6,38.0 161.0,9.8 162.4,8.0 163.7,7.4 165.1,6.9 166.5,9.4 167.8,10.3 169.2,10.3 170.6,6.8 172.0,6.6 173.3,38.0 174.7,38.0 176.1,38.0 177.4,38.0 178.8,38.0 180.2,7.8 181.6,7.4 182.9,4.6 184.3,4.9 185.7,4.9 187.0,4.3 188.4,10.1 189.8,10.1 191.1,5.4 192.5,8.2 193.9,8.2 195.3,38.0 196.6,5.2 198.0,2.0 198.0,38.0 2.0,38.0"/><polyline fill="none" stroke="#1870d0" stroke-width="1.5" stroke-linejoin="round" stroke-linecap="round" points="2.0,38.0 3.4,38.0 4.7,38.0 6.1,38.0 7.5,38.0 8.9,38.0 10.2,38.0 11.6,38.0 13.0,38.0 14.3,38.0 15.7,38.0 17.1,38.0 18.4,38.0 19.8,38.0 21.2,38.0 22.6,38.0 23.9,38.0 25.3,38.0 26.7,38.0 28.0,38.0 29.4,38.0 30.8,38.0 32.2,38.0 33.5,38.0 34.9,38.0 36.3,38.0 37.6,38.0 39.0,38.0 40.4,38.0 41.7,38.0 43.1,38.0 44.5,38.0 45.9,38.0 47.2,38.0 48.6,38.0 50.0,38.0 51.3,38.0 52.7,38.0 54.1,38.0 55.5,38.0 56.8,38.0 58.2,38.0 59.6,38.0 60.9,38.0 62.3,38.0 63.7,36.9 65.0,9.3 66.4,8.3 67.8,7.4 69.2,10.1 70.5,8.9 71.9,9.2 73.3,7.8 74.6,6.9 76.0,10.5 77.4,7.8 78.8,6.6 80.1,10.2 81.5,7.6 82.9,6.5 84.2,5.6 85.6,6.2 87.0,6.6 88.3,7.8 89.7,6.8 91.1,38.0 92.5,5.6 93.8,38.0 95.2,38.0 96.6,7.6 97.9,6.8 99.3,4.8 100.7,7.6 102.1,5.5 103.4,6.2 104.8,10.9 106.2,38.0 107.5,38.0 108.9,7.5 110.3,6.8 111.7,6.4 113.0,38.0 114.4,38.0 115.8,38.0 117.1,38.0 118.5,38.0 119.9,38.0 121.2,38.0 122.6,38.0 124.0,38.0 125.4,38.0 126.7,38.0 128.1,38.0 129.5,38.0 130.8,38.0 132.2,38.0 133.6,2.9 135.0,38.0 136.3,38.0 137.7,38.0 139.1,6.8 140.4,6.8 141.8,38.0 143.2,38.0 144.5,38.0 145.9,38.0 147.3,5.6 148.7,5.6 150.0,38.0 151.4,38.0 152.8,38.0 154.1,38.0 155.5,38.0 156.9,38.0 158.3,38.0 159.6,38.0 161.0,9.8 162.4,8.0 163.7,7.4 165.1,6.9 166.5,9.4 167.8,10.3 169.2,10.3 170.6,6.8 172.0,6.6 173.3,38.0 174.7,38.0 176.1,38.0 177.4,38.0 178.8,38.0 180.2,7.8 181.6,7.4 182.9,4.6 184.3,4.9 185.7,4.9 187.0,4.3 188.4,10.1 189.8,10.1 191.1,5.4 192.5,8.2 193.9,8.2 195.3,38.0 196.6,5.2 198.0,2.0"/></svg>  <div class="trend-range">range: 0 – 83,268</div></div><div class="trend">  <div class="trend-lbl">Total BTC pending</div>  <div class="trend-val">4.11k <small>BTC</small></div>  <svg width="200" height="40" class="spark" viewBox="0 0 200 40"><polygon fill="#f0a010" fill-opacity="0.15" points="2.0,38.0 3.4,38.0 4.7,38.0 6.1,38.0 7.5,38.0 8.9,38.0 10.2,38.0 11.6,38.0 13.0,38.0 14.3,38.0 15.7,38.0 17.1,38.0 18.4,38.0 19.8,38.0 21.2,38.0 22.6,38.0 23.9,38.0 25.3,38.0 26.7,38.0 28.0,38.0 29.4,38.0 30.8,38.0 32.2,38.0 33.5,38.0 34.9,38.0 36.3,38.0 37.6,38.0 39.0,38.0 40.4,38.0 41.7,38.0 43.1,38.0 44.5,38.0 45.9,38.0 47.2,38.0 48.6,38.0 50.0,38.0 51.3,38.0 52.7,38.0 54.1,38.0 55.5,38.0 56.8,38.0 58.2,38.0 59.6,38.0 60.9,38.0 62.3,38.0 63.7,37.9 65.0,32.1 66.4,28.1 67.8,2.0 69.2,36.0 70.5,21.9 71.9,29.7 73.3,25.8 74.6,17.4 76.0,36.3 77.4,27.7 78.8,12.9 80.1,37.2 81.5,28.9 82.9,25.3 84.2,9.4 85.6,27.8 87.0,29.1 88.3,36.5 89.7,34.6 91.1,38.0 92.5,27.9 93.8,38.0 95.2,38.0 96.6,29.7 97.9,31.7 99.3,28.2 100.7,30.1 102.1,26.7 103.4,35.4 104.8,37.3 106.2,38.0 107.5,38.0 108.9,30.8 110.3,29.4 111.7,29.6 113.0,38.0 114.4,38.0 115.8,38.0 117.1,38.0 118.5,38.0 119.9,38.0 121.2,38.0 122.6,38.0 124.0,38.0 125.4,38.0 126.7,38.0 128.1,38.0 129.5,38.0 130.8,38.0 132.2,38.0 133.6,3.5 135.0,38.0 136.3,38.0 137.7,38.0 139.1,35.6 140.4,35.6 141.8,38.0 143.2,38.0 144.5,38.0 145.9,38.0 147.3,36.0 148.7,36.0 150.0,38.0 151.4,38.0 152.8,38.0 154.1,38.0 155.5,38.0 156.9,38.0 158.3,38.0 159.6,38.0 161.0,36.3 162.4,34.3 163.7,32.5 165.1,30.4 166.5,37.3 167.8,35.0 169.2,35.0 170.6,32.6 172.0,35.3 173.3,38.0 174.7,38.0 176.1,38.0 177.4,38.0 178.8,38.0 180.2,37.1 181.6,31.6 182.9,29.2 184.3,36.1 185.7,36.1 187.0,31.9 188.4,37.2 189.8,37.2 191.1,31.4 192.5,37.4 193.9,37.4 195.3,38.0 196.6,36.0 198.0,33.3 198.0,38.0 2.0,38.0"/><polyline fill="none" stroke="#f0a010" stroke-width="1.5" stroke-linejoin="round" stroke-linecap="round" points="2.0,38.0 3.4,38.0 4.7,38.0 6.1,38.0 7.5,38.0 8.9,38.0 10.2,38.0 11.6,38.0 13.0,38.0 14.3,38.0 15.7,38.0 17.1,38.0 18.4,38.0 19.8,38.0 21.2,38.0 22.6,38.0 23.9,38.0 25.3,38.0 26.7,38.0 28.0,38.0 29.4,38.0 30.8,38.0 32.2,38.0 33.5,38.0 34.9,38.0 36.3,38.0 37.6,38.0 39.0,38.0 40.4,38.0 41.7,38.0 43.1,38.0 44.5,38.0 45.9,38.0 47.2,38.0 48.6,38.0 50.0,38.0 51.3,38.0 52.7,38.0 54.1,38.0 55.5,38.0 56.8,38.0 58.2,38.0 59.6,38.0 60.9,38.0 62.3,38.0 63.7,37.9 65.0,32.1 66.4,28.1 67.8,2.0 69.2,36.0 70.5,21.9 71.9,29.7 73.3,25.8 74.6,17.4 76.0,36.3 77.4,27.7 78.8,12.9 80.1,37.2 81.5,28.9 82.9,25.3 84.2,9.4 85.6,27.8 87.0,29.1 88.3,36.5 89.7,34.6 91.1,38.0 92.5,27.9 93.8,38.0 95.2,38.0 96.6,29.7 97.9,31.7 99.3,28.2 100.7,30.1 102.1,26.7 103.4,35.4 104.8,37.3 106.2,38.0 107.5,38.0 108.9,30.8 110.3,29.4 111.7,29.6 113.0,38.0 114.4,38.0 115.8,38.0 117.1,38.0 118.5,38.0 119.9,38.0 121.2,38.0 122.6,38.0 124.0,38.0 125.4,38.0 126.7,38.0 128.1,38.0 129.5,38.0 130.8,38.0 132.2,38.0 133.6,3.5 135.0,38.0 136.3,38.0 137.7,38.0 139.1,35.6 140.4,35.6 141.8,38.0 143.2,38.0 144.5,38.0 145.9,38.0 147.3,36.0 148.7,36.0 150.0,38.0 151.4,38.0 152.8,38.0 154.1,38.0 155.5,38.0 156.9,38.0 158.3,38.0 159.6,38.0 161.0,36.3 162.4,34.3 163.7,32.5 165.1,30.4 166.5,37.3 167.8,35.0 169.2,35.0 170.6,32.6 172.0,35.3 173.3,38.0 174.7,38.0 176.1,38.0 177.4,38.0 178.8,38.0 180.2,37.1 181.6,31.6 182.9,29.2 184.3,36.1 185.7,36.1 187.0,31.9 188.4,37.2 189.8,37.2 191.1,31.4 192.5,37.4 193.9,37.4 195.3,38.0 196.6,36.0 198.0,33.3"/></svg>  <div class="trend-range">range: 0 sat – 31.67k</div></div><div class="trend">  <div class="trend-lbl">Median tx amount</div>  <div class="trend-val">643 sat <small>BTC</small></div>  <svg width="200" height="40" class="spark" viewBox="0 0 200 40"><polygon fill="#e86010" fill-opacity="0.15" points="2.0,38.0 3.4,38.0 4.7,38.0 6.1,38.0 7.5,38.0 8.9,38.0 10.2,38.0 11.6,38.0 13.0,38.0 14.3,38.0 15.7,38.0 17.1,38.0 18.4,38.0 19.8,38.0 21.2,38.0 22.6,38.0 23.9,38.0 25.3,38.0 26.7,38.0 28.0,38.0 29.4,38.0 30.8,38.0 32.2,38.0 33.5,38.0 34.9,38.0 36.3,38.0 37.6,38.0 39.0,38.0 40.4,38.0 41.7,38.0 43.1,38.0 44.5,38.0 45.9,38.0 47.2,38.0 48.6,38.0 50.0,38.0 51.3,38.0 52.7,38.0 54.1,38.0 55.5,38.0 56.8,38.0 58.2,38.0 59.6,38.0 60.9,2.0 62.3,2.0 63.7,36.9 65.0,37.3 66.4,37.3 67.8,37.3 69.2,37.3 70.5,37.3 71.9,37.3 73.3,37.3 74.6,37.3 76.0,37.3 77.4,37.3 78.8,37.3 80.1,37.3 81.5,37.3 82.9,37.3 84.2,37.3 85.6,37.3 87.0,37.3 88.3,37.3 89.7,37.3 91.1,38.0 92.5,37.3 93.8,38.0 95.2,38.0 96.6,37.3 97.9,37.3 99.3,37.3 100.7,37.3 102.1,37.3 103.4,37.3 104.8,37.3 106.2,38.0 107.5,38.0 108.9,37.3 110.3,37.3 111.7,37.3 113.0,38.0 114.4,38.0 115.8,38.0 117.1,38.0 118.5,38.0 119.9,38.0 121.2,38.0 122.6,38.0 124.0,38.0 125.4,38.0 126.7,38.0 128.1,38.0 129.5,38.0 130.8,38.0 132.2,38.0 133.6,37.2 135.0,38.0 136.3,38.0 137.7,38.0 139.1,37.3 140.4,37.3 141.8,38.0 143.2,38.0 144.5,38.0 145.9,38.0 147.3,37.3 148.7,37.3 150.0,38.0 151.4,38.0 152.8,38.0 154.1,38.0 155.5,38.0 156.9,38.0 158.3,38.0 159.6,38.0 161.0,37.3 162.4,37.3 163.7,37.3 165.1,37.3 166.5,37.3 167.8,37.3 169.2,37.3 170.6,37.3 172.0,37.3 173.3,38.0 174.7,38.0 176.1,38.0 177.4,38.0 178.8,38.0 180.2,37.3 181.6,37.3 182.9,37.3 184.3,37.3 185.7,37.3 187.0,37.3 188.4,37.3 189.8,37.3 191.1,37.3 192.5,37.3 193.9,37.3 195.3,38.0 196.6,37.3 198.0,37.3 198.0,38.0 2.0,38.0"/><polyline fill="none" stroke="#e86010" stroke-width="1.5" stroke-linejoin="round" stroke-linecap="round" points="2.0,38.0 3.4,38.0 4.7,38.0 6.1,38.0 7.5,38.0 8.9,38.0 10.2,38.0 11.6,38.0 13.0,38.0 14.3,38.0 15.7,38.0 17.1,38.0 18.4,38.0 19.8,38.0 21.2,38.0 22.6,38.0 23.9,38.0 25.3,38.0 26.7,38.0 28.0,38.0 29.4,38.0 30.8,38.0 32.2,38.0 33.5,38.0 34.9,38.0 36.3,38.0 37.6,38.0 39.0,38.0 40.4,38.0 41.7,38.0 43.1,38.0 44.5,38.0 45.9,38.0 47.2,38.0 48.6,38.0 50.0,38.0 51.3,38.0 52.7,38.0 54.1,38.0 55.5,38.0 56.8,38.0 58.2,38.0 59.6,38.0 60.9,2.0 62.3,2.0 63.7,36.9 65.0,37.3 66.4,37.3 67.8,37.3 69.2,37.3 70.5,37.3 71.9,37.3 73.3,37.3 74.6,37.3 76.0,37.3 77.4,37.3 78.8,37.3 80.1,37.3 81.5,37.3 82.9,37.3 84.2,37.3 85.6,37.3 87.0,37.3 88.3,37.3 89.7,37.3 91.1,38.0 92.5,37.3 93.8,38.0 95.2,38.0 96.6,37.3 97.9,37.3 99.3,37.3 100.7,37.3 102.1,37.3 103.4,37.3 104.8,37.3 106.2,38.0 107.5,38.0 108.9,37.3 110.3,37.3 111.7,37.3 113.0,38.0 114.4,38.0 115.8,38.0 117.1,38.0 118.5,38.0 119.9,38.0 121.2,38.0 122.6,38.0 124.0,38.0 125.4,38.0 126.7,38.0 128.1,38.0 129.5,38.0 130.8,38.0 132.2,38.0 133.6,37.2 135.0,38.0 136.3,38.0 137.7,38.0 139.1,37.3 140.4,37.3 141.8,38.0 143.2,38.0 144.5,38.0 145.9,38.0 147.3,37.3 148.7,37.3 150.0,38.0 151.4,38.0 152.8,38.0 154.1,38.0 155.5,38.0 156.9,38.0 158.3,38.0 159.6,38.0 161.0,37.3 162.4,37.3 163.7,37.3 165.1,37.3 166.5,37.3 167.8,37.3 169.2,37.3 170.6,37.3 172.0,37.3 173.3,38.0 174.7,38.0 176.1,38.0 177.4,38.0 178.8,38.0 180.2,37.3 181.6,37.3 182.9,37.3 184.3,37.3 185.7,37.3 187.0,37.3 188.4,37.3 189.8,37.3 191.1,37.3 192.5,37.3 193.9,37.3 195.3,38.0 196.6,37.3 198.0,37.3"/></svg>  <div class="trend-range">range: 0 sat – 32,048 sat</div></div></div>
 
   <h2>Top Whales</h2>
-  <table class="whales"><thead><tr><th>BTC</th><th>sat/vB</th><th>Age</th><th>vsize</th><th>txid</th></tr></thead><tbody><tr><td class="num">528.5977</td><td class="num">1.2</td><td>15m</td><td class="num">327</td><td><a href="https://mempool.space/tx/0de8bb9f836ddee8ed042198a92d15d620871c48a4c421c12a3aacd9bc760550" target="_blank" rel="noopener">0de8bb9f…760550</a></td></tr><tr><td class="num">233.8024</td><td class="num">1.2</td><td>15m</td><td class="num">209</td><td><a href="https://mempool.space/tx/52bb31316cadc7c911d1b03adb95c96d8593d60818bc7709af8d2bf5f1efdff5" target="_blank" rel="noopener">52bb3131…efdff5</a></td></tr><tr><td class="num">70.7320</td><td class="num">1.5</td><td>13m</td><td class="num">265</td><td><a href="https://mempool.space/tx/714757a54f2d70ca4300823269e46a018eab0ff16e68bbb6806259fffaabb906" target="_blank" rel="noopener">714757a5…abb906</a></td></tr><tr><td class="num">69.9627</td><td class="num">1.5</td><td>16m</td><td class="num">388</td><td><a href="https://mempool.space/tx/408b095bb96eb4e951b0a6f21da7787aafe1e0a968b235578ffc042a0b558489" target="_blank" rel="noopener">408b095b…558489</a></td></tr><tr><td class="num">58.8080</td><td class="num">3.1</td><td>17m</td><td class="num">743</td><td><a href="https://mempool.space/tx/946d1f9afdec91ada816547fbc3151e07441ad0d3c198cfbadf2e2c61659b09c" target="_blank" rel="noopener">946d1f9a…59b09c</a></td></tr></tbody></table>
+  <table class="whales"><thead><tr><th>BTC</th><th>sat/vB</th><th>Age</th><th>vsize</th><th>txid</th></tr></thead><tbody><tr><td class="num">528.5977</td><td class="num">1.2</td><td>25m</td><td class="num">327</td><td><a href="https://mempool.space/tx/0de8bb9f836ddee8ed042198a92d15d620871c48a4c421c12a3aacd9bc760550" target="_blank" rel="noopener">0de8bb9f…760550</a></td></tr><tr><td class="num">320.8088</td><td class="num">1.2</td><td>15m</td><td class="num">783</td><td><a href="https://mempool.space/tx/d57e734eeb6a3b54158b4eddbc8f031e5fa14c161b2a746e9bfac53b1048ee50" target="_blank" rel="noopener">d57e734e…48ee50</a></td></tr><tr><td class="num">233.8024</td><td class="num">1.2</td><td>26m</td><td class="num">209</td><td><a href="https://mempool.space/tx/52bb31316cadc7c911d1b03adb95c96d8593d60818bc7709af8d2bf5f1efdff5" target="_blank" rel="noopener">52bb3131…efdff5</a></td></tr><tr><td class="num">104.3514</td><td class="num">6.0</td><td>20m</td><td class="num">522</td><td><a href="https://mempool.space/tx/f04b1503fe2dbc4dad22e2966350fd8ce78ee98f6f935de14cf73f402aa4daee" target="_blank" rel="noopener">f04b1503…a4daee</a></td></tr><tr><td class="num">101.7712</td><td class="num">1.2</td><td>20m</td><td class="num">141</td><td><a href="https://mempool.space/tx/8e3903dc23840337164fc92e1de8cf06d1bd0645161646326b5be5ad4d4a608b" target="_blank" rel="noopener">8e3903dc…4a608b</a></td></tr></tbody></table>
 
   <div class="footer">Generated by btc-weather on Raspberry Pi · Bitcoin Core 31.0</div>
 </body>
